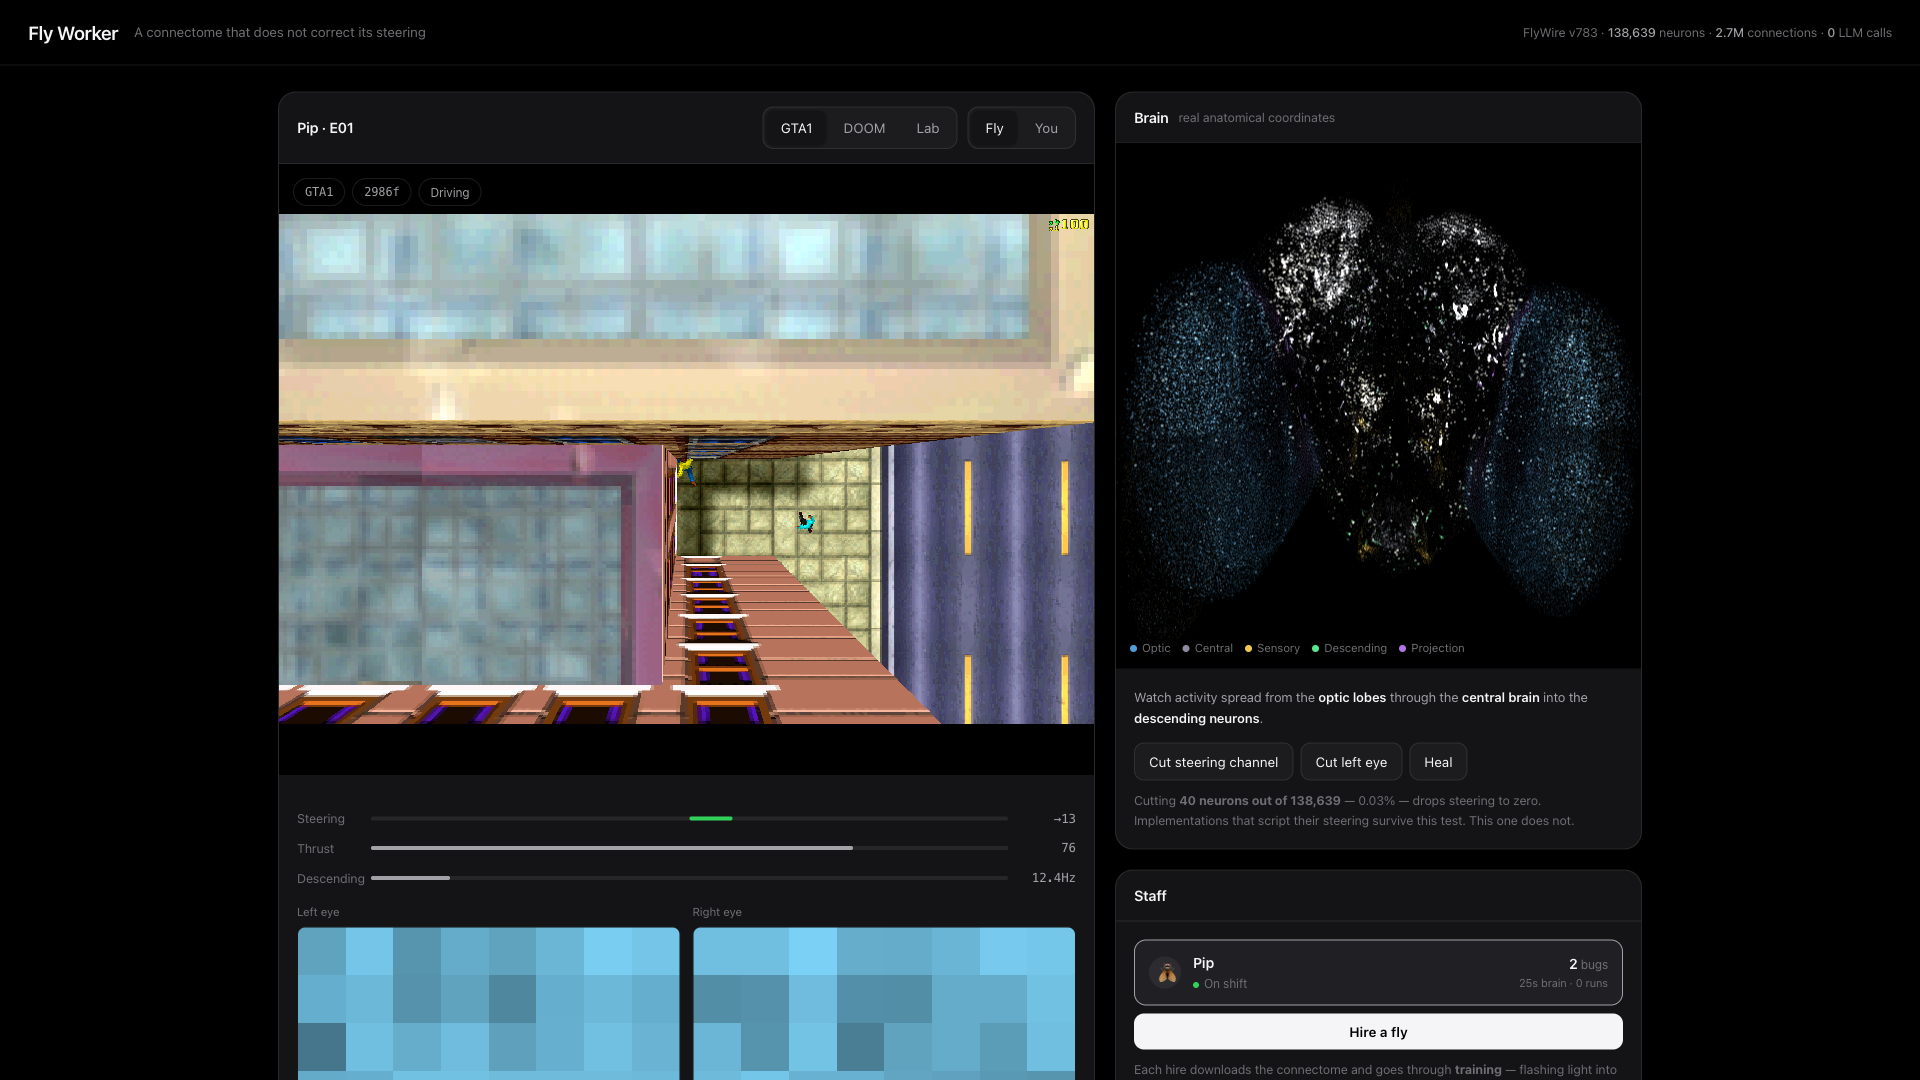
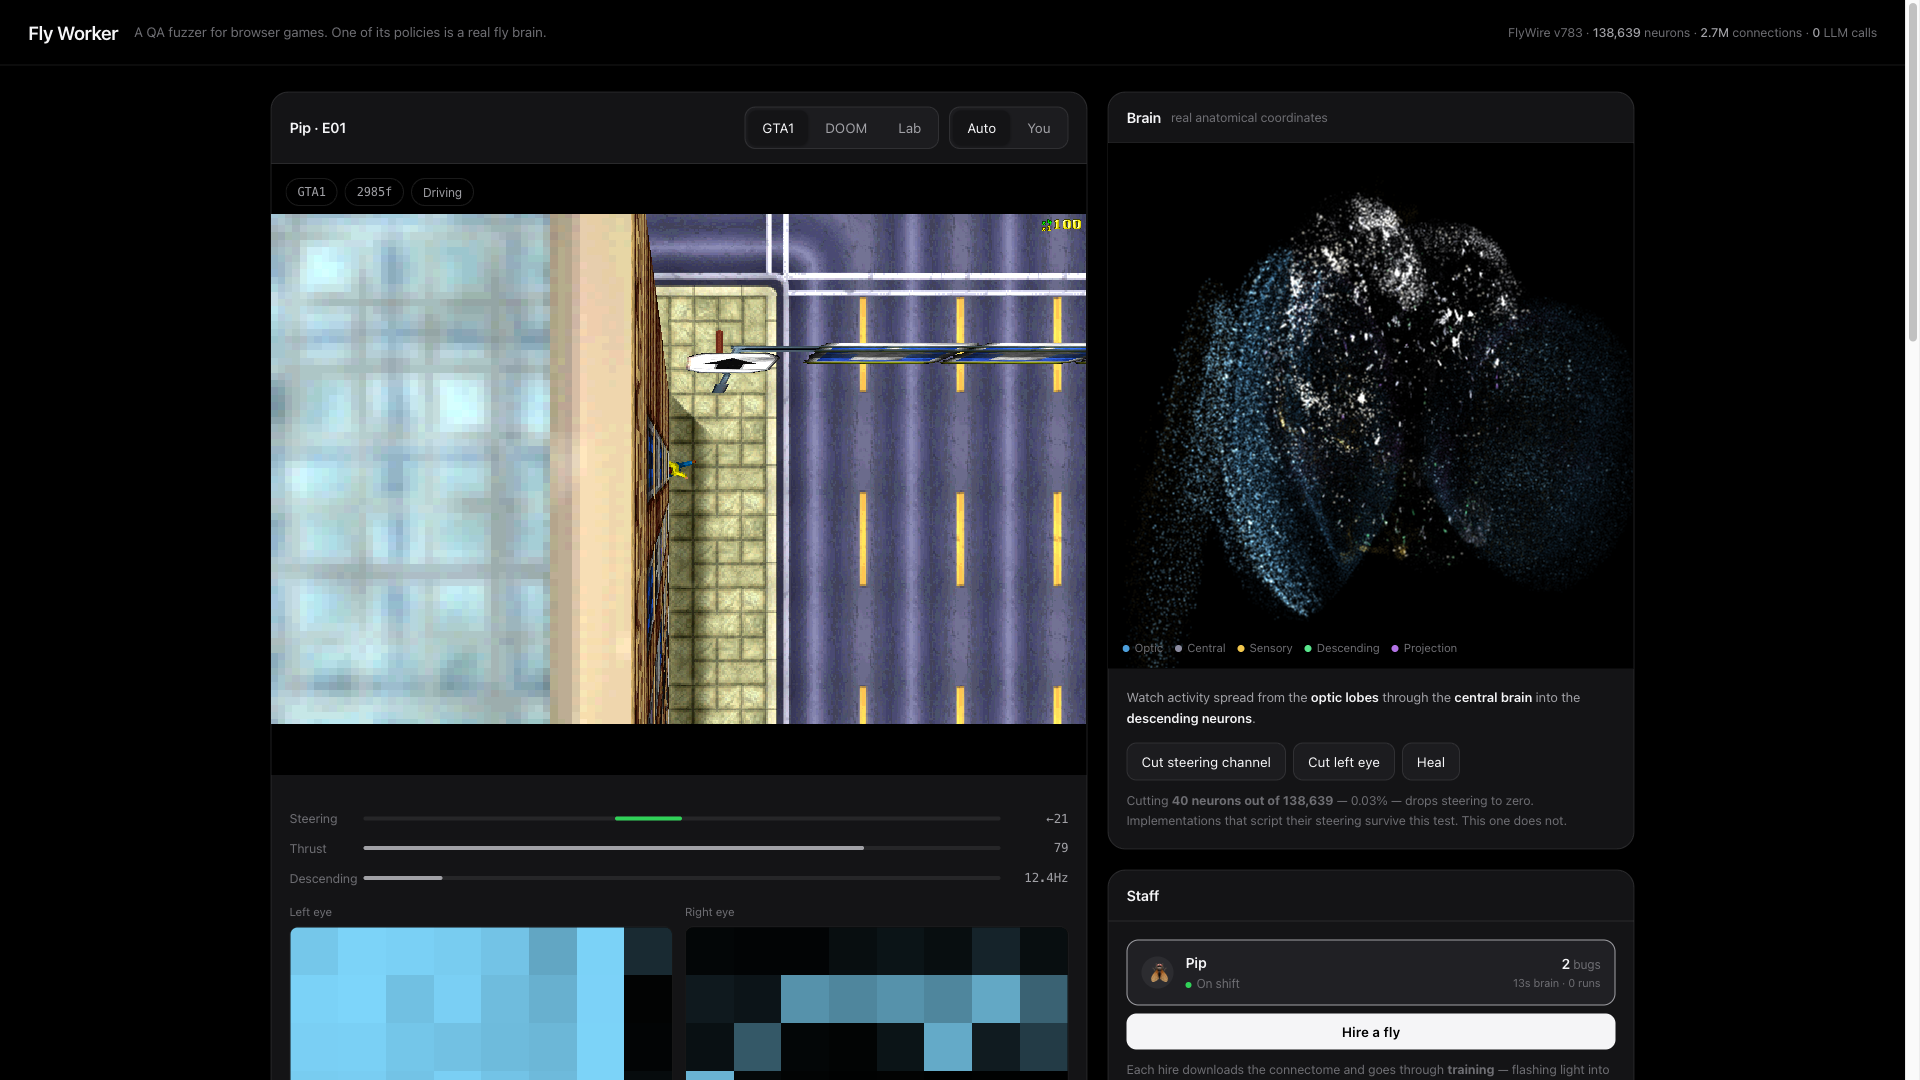
발견 목록 높이 고정 + 제출 자료를 프레임워크 기준으로 다시 씀
발견이 계속 쌓이면 오른쪽 칸이 아래로 밀려 비교표와 재현 패널이
화면 밖으로 나갔다. #bugs 에 max-height 를 주고 grid2 를 align-items:start
로 바꿨다.

제출 자료는 "초파리가 게임을 못한다"에서 "제품은 퍼저이고 초파리는
그 정책 중 하나"로 다시 썼다. 대표이미지 1면에 정책 비교표를 싣고,
스크린샷 4번을 둠 대신 비교표로 교체했다.

diff --git a/docs/app.css b/docs/app.css
@@ -118,6 +118,11 @@ button.danger{color:var(--red)}
 @keyframes p{0%,100%{opacity:1}50%{opacity:.3}}
 
 /* ── 버그 ─────────────────────────────── */
+/* 발견 목록은 계속 쌓인다. 높이를 묶지 않으면 오른쪽 칸이 아래로 밀려
+   비교표와 재현 패널이 화면 밖으로 나간다. */
+#bugs{max-height:620px;overflow-y:auto}
+#bugs::-webkit-scrollbar{width:8px}
+#bugs::-webkit-scrollbar-thumb{background:#2c2c30;border-radius:99px}
 .bug{padding:13px 16px;border-bottom:1px solid var(--line)}
 .bug:last-child{border-bottom:0}
 .bug .t{display:flex;align-items:baseline;gap:9px}
@@ -140,7 +145,7 @@ details summary::before{content:"＋ ";color:var(--fg3)}
 details[open] summary::before{content:"－ "}
 details .note{margin-top:10px}
 
-.grid2{display:grid;grid-template-columns:1fr 1fr;gap:20px;margin-top:20px}
+.grid2{display:grid;grid-template-columns:1fr 1fr;gap:20px;margin-top:20px;align-items:start}
 @media(max-width:860px){.grid2{grid-template-columns:1fr}.stats{grid-template-columns:repeat(2,1fr)}}
 
 footer{color:var(--fg3);font-size:12.5px;text-align:center;padding:30px;border-top:1px solid var(--line);margin-top:40px}

diff --git a/submit/제출가이드.md b/submit/제출가이드.md
@@ -10,15 +10,15 @@
 
 ## 2. 제목
 ```
-Fly Worker — 조향을 보정하지 않는 초파리 커넥톰
+Fly Worker — 정책을 갈아끼우는 브라우저 게임 QA 퍼저
 ```
 
 ## 3. 해결하고자 한 문제 (한 줄)
 ```
-커넥톰 프로젝트들이 "뇌가 행동을 만든다"고 말하면서 실제로는 조향을 손으로 짜고 있는 문제
+게임 QA 자동화가 "버그 몇 건"으로 평가되는 문제 — 똑같은 프리즈 하나도 95건으로 세어집니다
 ```
 
-## 4. AI 활용 방식 및 결과 (494자 / 500자)
+## 4. AI 활용 방식 및 결과 (499자 / 500자)
 `submit/ai설명.txt` 내용을 그대로 붙여넣기
 
 ## 5. 사용 AI툴 및 기술 스택
@@ -40,11 +40,11 @@ https://kimhyunwoo-flyworker.static.hf.space/
 
 | # | 파일 | 내용 |
 |---|---|---|
-| 1 | `shots/1-gta.png` | GTA1 을 조종하는 초파리 + 3D 뇌 |
-| 2 | `shots/2-lesion.png` | **손상 실험** — 40개 절단 후 조향 `·0` |
-| 3 | `shots/3-lab.png` | 연구실 게임 + 눈이 보는 것 + 버그 15건 |
-| 4 | `shots/4-reproduce.png` | **재현** — "Exact match" |
-| 5 | `shots/5-doom.png` | 둠 |
+| 1 | `shots/1-gta.png` | 소스 없는 GTA1 에 붙어서 플레이 + 3D 뇌 |
+| 2 | `shots/2-lesion.png` | **손상 실험** — 뉴런 40개 절단 후 조향 `·0` |
+| 3 | `shots/3-lab.png` | 연구실 게임 + 눈이 보는 것 + 발견 28건 |
+| 4 | `shots/4-policies.png` | **정책 비교표** — 초파리가 평활 난수에 진다 |
+| 5 | `shots/5-reproduce.png` | **재현** — "Exact match" |
 
 ---
 
@@ -52,21 +52,20 @@ https://kimhyunwoo-flyworker.static.hf.space/
 
 | 기준 | 근거 |
 |---|---|
-| **AI 활용의 적절성** | 커넥톰 스파이킹 신경망이 서비스의 본체. LLM 추론 0회. 판정은 결정적 규칙 |
-| **기획력** | "뇌가 행동을 만든다"는 업계 주장과 실제 코드의 괴리를 지적하고, 손상 실험으로 증명 |
-| **실현 가능성** | 두 곳에 배포 완료. 브라우저에서 즉시 동작 |
-| **확장성** | 인터페이스가 없는 게임(GTA1)에도 합성 키 + 프레임버퍼 가로채기로 붙음 — 임의의 브라우저 게임에 적용 가능 |
-| **기술력** | 커넥톰 압축(연결당 2.01B), 워커 병렬, WebGPU 3D, 100% 재현 |
+| **기획력** | 제품은 퍼저 프레임워크이고 정책은 부품. 그래서 자기 정책이 져도 제품이 선다. 버그 개수가 가짜 지표임을 지적하고 커버리지·증상 다양성으로 바꿔 잼 |
+| **AI 활용의 적절성** | 정책 하나가 커넥톰 스파이킹 신경망(뉴런 138,639개). LLM 추론 0회, 판정은 결정적 규칙. AI를 쓴 자리와 안 쓴 자리를 구분함 |
+| **실현 가능성** | 두 곳에 배포 완료, 서버 없음. 브라우저 열면 바로 돌고 리포트가 나옴 |
+| **확장성** | 인터페이스가 없는 게임(GTA1)에도 합성 키 + 프레임버퍼 가로채기로 붙음 — 임의의 브라우저 게임에 적용 가능. 정책도 함수 하나 |
+| **기술력** | 커넥톰 압축(연결당 2.01B), 워커 병렬, WebGL 3D 뇌, 재현 12/12 정확 일치 |
 
 ## 차별점 한 줄
 
-> 다른 초파리 프로젝트는 **구경**에서 끝나고, 조향은 손으로 짜여 있습니다.
-> 이것은 **결과물(버그 리포트)** 을 내놓고, **자기 한계를 측정해서 공개**하며,
-> **뉴런을 잘라 증명**합니다.
+> 정책을 네 개 붙여서 **같은 예산으로 재봤고, 우리 초파리가 졌습니다.**
+> 그 표를 첫 화면에 싣습니다. 제품이 정책이 아니라 프레임워크이기 때문입니다.
 
 ## 제출 전 확인
 
 - [ ] 서비스 링크 접속 확인 (심사 기간 내내 유지되어야 함)
 - [ ] 스크린샷 5장 업로드
-- [ ] 500자 설명 붙여넣기
+- [ ] 499자 설명 붙여넣기
 - [ ] **「과제 제출하기」 클릭** (임시저장 ✗)
